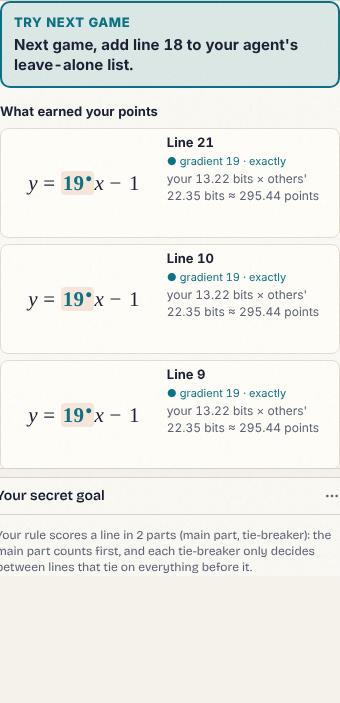
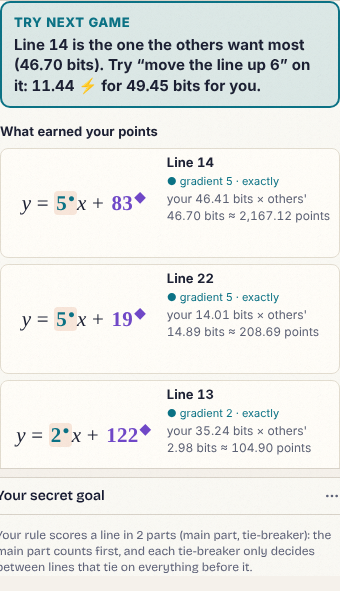
End summary: settle a contested line and hold it (rule-compatibility result), with the state worth most when the other side is a practice partner
Claude-Session: https://claude.ai/code/session_0119hWTTneiee5zMGReiz7sy

diff --git a/lib/v2-views/src/summary.tsx b/lib/v2-views/src/summary.tsx
@@ -9,7 +9,8 @@ import type { Score } from "@workspace/v2-core";
 import type { RuleRef } from "./annotate.ts";
 import { contributors } from "./contributors.ts";
 import { CompactFace, partLine } from "./faces.tsx";
-import { fmtBits, fmtEnergy, fmtNum, scoreFormula } from "./format.ts";
+import { fmtBits, fmtEnergy, fmtNum, pointsText, scoreFormula } from "./format.ts";
+import { chipRep, repText } from "./rep-view.tsx";
 import { moves } from "./moves.ts";
 import { nounOf } from "./refs.ts";
 
@@ -24,7 +25,7 @@ export interface SummaryObject<S> {
   readonly want: number;
 }
 
-export interface SummaryTug {
+export interface SummaryTug<S = unknown> {
   readonly number: number;
   /** The other side, by name. */
   readonly withNames: readonly string[];
@@ -34,6 +35,8 @@ export interface SummaryTug {
   readonly mySpend: number;
   /** Every other side is a practice partner (they do not read chat). */
   readonly practice?: boolean;
+  /** The state the pull passed through that was worth most to the player, and its points then. */
+  readonly best?: { readonly state: S; readonly points: number };
 }
 
 export interface SummaryInput<S> {
@@ -41,7 +44,7 @@ export interface SummaryInput<S> {
   /** The rule's value function (bits of a utility), for the suggested move's new bits. */
   readonly value?: (u: Score) => number;
   readonly objects: readonly SummaryObject<S>[];
-  readonly tugs: readonly SummaryTug[];
+  readonly tugs: readonly SummaryTug<S>[];
   /** The player's final total. */
   readonly total: number;
 }
@@ -84,17 +87,22 @@ export function summarise<S>(input: SummaryInput<S>): Summary<S> {
 
   // What cost: each tug-of-war, dearest first, said as what happened.
   const tugs = [...input.tugs].sort((a, b) => b.mySpend - a.mySpend);
-  const costs = tugs.map(t => ({ number: t.number, text: `${youAnd(t.withNames)} pulled ${noun} ${t.number} back and forth (${t.flips} pulls; ${fmtEnergy(t.mySpend)} of yours).` }));
+  const costs = tugs.map(t => ({ number: t.number, text: `${youAnd(t.withNames)} pulled ${noun} ${t.number} back and forth (${t.flips} pulls, ${fmtEnergy(t.mySpend)}).` }));
   const spent = tugs.reduce((t, x) => t + x.mySpend, 0);
   const costNote = tugs.length > 1 ? `Tug-of-wars cost you ${fmtEnergy(spent)} in all: energy that moved no ${noun} for good.` : null;
 
-  // One thing to try, as a concrete lever: the dearest tug-of-war's object left alone (or a state agreed in chat, with
-  // people: practice partners do not read it); else the most wanted object made rarer for you.
+  // One thing to try. What pays on a contested line (docs/engine-v2/rule-compatibility.md) is settling it at a state
+  // both sides like and holding it, not keeping off it: with people, agree it; with practice partners (who do not
+  // talk), the state the pull passed through that was worth most to you, to hold next time.
   let next: Summary["next"];
   const top = tugs[0];
   if (top) {
-    const lever = `Next game, add ${noun} ${top.number} to your agent's leave-alone list`;
-    next = { number: top.number, text: top.practice ? `${lever}.` : `${lever}, or agree a state for it with ${names(top.withNames)} in chat.` };
+    const at = `${noun} ${top.number}`;
+    next = { number: top.number, text: !top.practice
+      ? `Next game, tell each other what your rules want and settle ${at} at a ${noun} that suits you both; then both hold it.`
+      : top.best
+        ? `Next game, hold ${at} at ${repText(rule.type, top.best.state, chipRep(rule.type, top.best.state))}: it was worth ${pointsText(top.best.points)} to you there.`
+        : `Next game, settle ${at} at a ${noun} your rule likes and hold it there.` };
   } else {
     const wanted = [...input.objects].sort((a, b) => b.want - a.want)[0];
     const m = wanted ? moves(rule, wanted.state, input.value ?? null, { k: 1 })[0] : undefined;

diff --git a/lib/v2-views/test/summary.test.tsx b/lib/v2-views/test/summary.test.tsx
@@ -46,21 +46,24 @@ test("what earned the points: the best lines first, each said through its rule's
 test("what cost: each tug-of-war with whom and the energy your agent burnt, dearest first", () => {
   const s = summarise(base);
   assert.equal(s.costs.length, 2);
-  assert.equal(s.costs[0]!.text, "You and Ada pulled line 4 back and forth (6 pulls; 28.86 ⚡ of yours).");
+  assert.equal(s.costs[0]!.text, "You and Ada pulled line 4 back and forth (6 pulls, 28.86 ⚡).");
   assert.match(s.costs[1]!.text, /You and Ada and Bo|You, Ada and Bo/);
   assert.match(s.costNote ?? "", /38\.36 ⚡ in all/);
 });
 
 test("one thing to try next game: talk to whoever pulled hardest against you, about that line", () => {
-  // What happened, then the concrete lever (talking pays only where the other side reads chat).
-  assert.equal(summarise(base).next.text, "Next game, add line 4 to your agent's leave-alone list, or agree a state for it with Ada in chat.");
+  // What pays (rule-compatibility.md): settling a contested line at a state both like and holding it, not keeping off.
+  assert.equal(summarise(base).next.text, "Next game, tell each other what your rules want and settle line 4 at a line that suits you both; then both hold it.");
   assert.equal(summarise(base).next.number, 4);
   // No tug-of-war: make the most wanted line rarer for you, with the move that does it and its price.
   const calm = summarise({ ...base, tugs: [] });
   assert.match(calm.next.text, /^Line 4 is the one the others want most \(7\.55 bits\)\. Try “.+” on it: [\d.]+ ⚡( for [\d.]+ bits for you)?\.$/, calm.next);
   // Practice partners do not read chat: the advice is about your own agent instead.
   const practice = summarise({ ...base, tugs: base.tugs.map(t => ({ ...t, practice: true })) });
-  assert.equal(practice.next.text, "Next game, add line 4 to your agent's leave-alone list.");
+  // Practice partners do not talk: the state the pull passed through that was worth most to you, to hold next time.
+  const held = summarise({ ...base, tugs: base.tugs.map((t, i) => ({ ...t, practice: true, ...(i === 0 ? { best: { state: mc(3, 23), points: 41.5 } } : {}) })) });
+  assert.equal(held.next.text, "Next game, hold line 4 at y = 3x + 23: it was worth 41.50 points to you there.");
+  assert.equal(practice.next.text, "Next game, settle line 4 at a line your rule likes and hold it there.");
 });
 
 test("the component: three short sections, no steps, the noun of the object type; a grid says grid", () => {

diff --git a/artifacts/player-web/src/panes/results.tsx b/artifacts/player-web/src/panes/results.tsx
@@ -105,11 +105,14 @@ function EndSummary({ total }: { total: number }) {
   const summary = useMemo(() => {
     if (!my || !header) return null;
     const objs = objects.flatMap(o => (o?.value ? [{ number: o.number, id: o.objectId, state: decodeState(o.state, header.variant), points: o.value.points, bits: o.value.rarityBits, want: o.value.want }] : []));
-    const tugs: SummaryTug[] = foldTugs(moves.results).flatMap(i => (i.kind === "tug"
+    const tugs: SummaryTug<unknown>[] = foldTugs(moves.results).flatMap(i => (i.kind === "tug"
       ? [(() => {
         const others = [...new Map(i.moves.filter(m => !m.mine && m.by).map(m => [m.by!.memberId, m.by!.name])).entries()];
         const practice = others.length > 0 && others.every(([id]) => header.roster.find(r => r.memberId === id)?.kind === "practice");
-        return { number: i.number, withNames: others.map(([, n]) => n), flips: i.flips, mySpend: i.mySpend, practice };
+        // The state the pull passed through that was worth most to you (each move's snapshot is yours).
+        const top = [...i.moves].filter(m => m.after && m.stateAfter).sort((x, y) => (y.after!.points ?? 0) - (x.after!.points ?? 0))[0];
+        const best = top ? { state: decodeState(top.stateAfter, header.variant), points: top.after!.points ?? 0 } : undefined;
+        return { number: i.number, withNames: others.map(([, n]) => n), flips: i.flips, mySpend: i.mySpend, practice, ...(best ? { best } : {}) };
       })()]
       : []));
     return summarise({ rule: my.rule as never, value: my.bits ?? undefined, objects: objs as never, tugs, total });

diff --git a/artifacts/player-web/e2e/v2-line-game.ts b/artifacts/player-web/e2e/v2-line-game.ts
@@ -225,7 +225,7 @@ try {
     const said = await summary.innerText();
     assert.match(said, /What earned your points/i);
     assert.match(said, /What cost you/);
-    assert.match(said, /(add line \d+ to your agent's leave-alone list|is the one the others want most|Open your secret goal)/, said);
+    assert.match(said, /(settle line \d+ at|hold line \d+ at|is the one the others want most|Open your secret goal)/, said);
     await summary.screenshot({ path: path.join(shots, `game-${label}-summary.png`) });
     // The results say what a total is, and step to the line-by-line list.
     await results.getByTestId("text-results-note").getByText(/Each total is the sum of that player's points on every line\./).waitFor();

diff --git a/artifacts/player-web/e2e/v2-grid-game.ts b/artifacts/player-web/e2e/v2-grid-game.ts
@@ -255,7 +255,7 @@ try {
     const summed = await summary.innerText();
     assert.match(summed, /What earned your points/i);
     assert.match(summed, /What cost you/);
-    assert.match(summed, /(add grid \d+ to your agent's leave-alone list|is the one the others want most|Open your secret goal)/, summed);
+    assert.match(summed, /(settle grid \d+ at|hold grid \d+ at|is the one the others want most|Open your secret goal)/, summed);
     await summary.screenshot({ path: path.join(shots, `grid-${label}-summary.png`) });
     await assertNoLineWord(page, `${label}: the results`);
     // The results say what a total is, and step to the line-by-line list.
